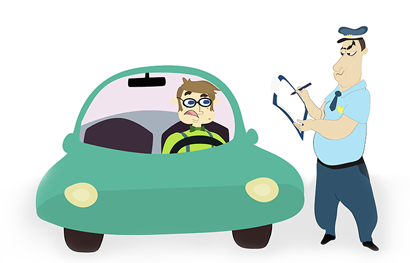
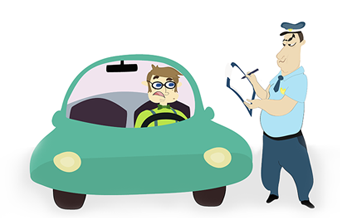
homepage

diff --git a/sites/all/themes/ticketbaby/css/ticketbaby.media.css b/sites/all/themes/ticketbaby/css/ticketbaby.media.css
@@ -2,6 +2,12 @@
 
 @media only screen and (max-width : 1200px) {
 
+  .front .l-main article .field__item p {
+    width      : 660px;
+    height     : 424px;
+    background : url(../images/homepage_illustration_miniscreens.png) center center no-repeat;
+  }
+
   /* TICKET FORM */
 
   #ticket-node-form {
@@ -13,6 +19,29 @@
 }
 
 @media only screen and (max-width : 1023px) {
+
+  .front .l-main article .field__item div {
+    margin-right : 0px;
+  }
+
+  .front .l-main article .field__item p {
+    margin : 1em auto;
+  }
+
+  .front .l-main article .field__item p {
+    width      : 340px;
+    height     : 218px;
+    background : url(../images/homepage_illustration_tablets.png) center center no-repeat;
+  }
+
+  .l-footer #block-menu-menu-footer-menu-about-us {
+    margin-right : 40px;
+    margin-left  : 20px;
+  }
+
+  .l-footer #block-menu-menu-footer-menu-support {
+    margin-right : 45px;
+  }
 
   /* TICKET FORM */
 
@@ -26,6 +55,18 @@
 
 @media only screen and (max-width : 767px) {
 
+  .front .l-main .l-region--sidebar-first {
+    width      : 100%;
+    padding    : 0;
+    text-align : center;
+  }
+
+  .front .l-main article .field__item p {
+    width      : 340px;
+    height     : 218px;
+    background : url(../images/homepage_illustration_tablets.png) center center no-repeat;
+  }
+
   /* HEADER */
 
   .l-header .l-branding {
@@ -36,17 +77,10 @@
 
   /* TICKET FORM */
 
-  .front .l-main .l-region--sidebar-first {
-    width      : 410px;
-    text-align : center;
-    padding    : 0 30px 283px 30px;
-    background : url(../images/homepage_illustration_tablets.png) bottom center no-repeat;
-  }
-
   #ticket-node-form {
     padding-left  : 10px;
     padding-right : 10px;
-    width         : 410px;
+    width         : 76%;
   }
 
   #ticket-node-form .field-type-text input[type="text"],
@@ -60,6 +94,10 @@
 }
 
 @media only screen and (max-width : 480px) {
+
+  .front .l-main article .field__item p {
+    display : none;
+  }
 
   /* HEADER */
 

diff --git a/sites/all/themes/ticketbaby/css/ticketbaby.skeleton.css b/sites/all/themes/ticketbaby/css/ticketbaby.skeleton.css
@@ -99,28 +99,33 @@ html, body {
     margin : 0 20px;
   }
 
+  .front .l-main .l-content {
+    width : 428px;
+  }
+
 }
 
 @media only screen and (max-width : 767px) {
 
   .wrapper_header_main {
-    width : 440px;
+    width : 80%;
   }
 
   .l-header, .l-main, .l-footer {
-    width : 410px;
+    width : 92%;
   }
 
   .l-header {
-    margin : 0 15px;
+    margin : 0 4%;
   }
 
   .l-main {
-    margin : 35px 15px 0 15px;
+    margin : 35px 4% 0 4%;
   }
 
-  .l-header .l-branding {
+  .front .l-main .l-content {
     float : none;
+    width : auto;
   }
 
   /* footer on bottom */
@@ -154,6 +159,10 @@ html, body {
 
   .l-main {
     margin : 25px 10px 0 10px;
+  }
+
+  .l-header .l-branding {
+    float : none;
   }
 
   /* footer on bottom */

diff --git a/sites/all/themes/ticketbaby/css/ticketbaby.styles.css b/sites/all/themes/ticketbaby/css/ticketbaby.styles.css
@@ -301,6 +301,10 @@ select {
   margin-right : 158px;
 }
 
+.l-footer #block-menu-menu-footer-menu-are-you-a-ticke {
+  margin-top : 23px;
+}
+
 .l-footer #block-menu-menu-footer-menu-are-you-a-ticke ul.menu li {
   float : left;
 }
